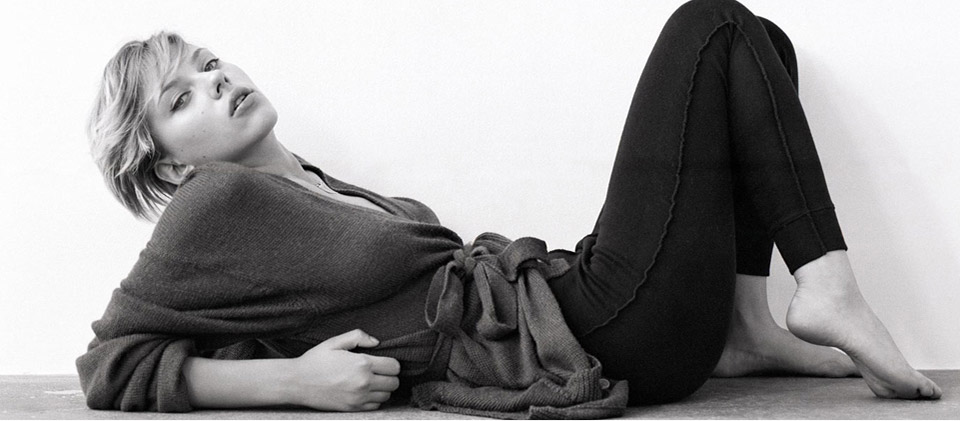
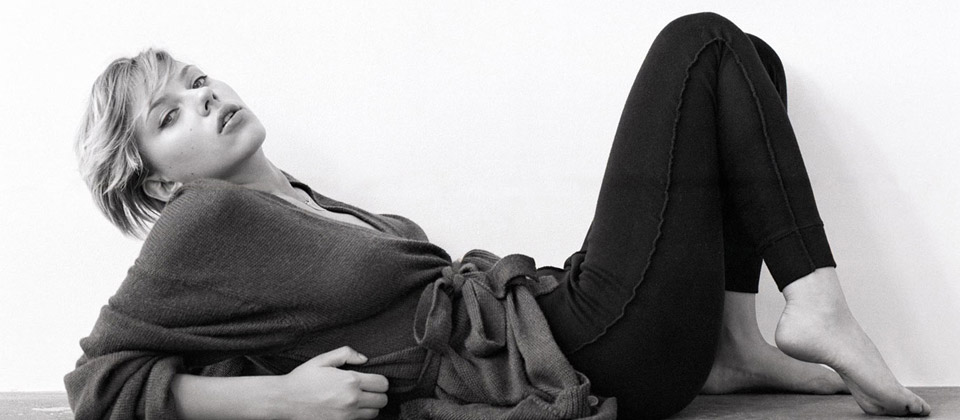
slider update

diff --git a/planetabhi/css/style.css b/planetabhi/css/style.css
@@ -113,10 +113,50 @@ header {
 }
 
 .slider {
-	height: 421px;
+	height: 420px;
+	width: 100%;
 	position: relative;
+	z-index: 1;
+	border: 1px solid #FFF;
+	transition: box-shadow .2s linear;
+}
+
+.slider:hover {
+	box-shadow: 3px 3px 10px #333;
+
+}
+
+.read_more{
+	position: relative;
+	z-index: inherit;
+	top: -1px;
+}
+
+.slider__inner {
+	height: 100%;
+	width: 100%;
+	position: absolute;
+	top: 0;
+	left: 0;
 	background: url(../images/slider_1.jpg) no-repeat;
 	opacity: 1;
+}
+
+/* Buttons */
+.read_btn{
+	font-size: 16px;
+	color: #FFFFFF;
+	position: absolute;
+	bottom: 20px;
+	right: 35px;
+	text-decoration: none;
+	opacity: 1;
+	transition: opacity .1s linear;
+	z-index: inherit;
+}
+
+.read_btn:hover {
+	opacity: 0.5;
 }
 
 .btns {
@@ -127,7 +167,9 @@ header {
 	text-align: center;
 	justify-content: space-between;
 	align-items: center;
+	z-index: inherit;
 }
+
 
 .btn {
 	font-size: 45px;
@@ -167,6 +209,7 @@ header {
 	bottom: 50px;
 	left: 50px;
 	color: #FFFFFF;
+	z-index: inherit;
 }
 
 .title {
@@ -176,23 +219,6 @@ header {
 
 .desc {
 	font-size: 14px;
-}
-
-/* Button */
-.btn_1 {
-	font-size: 16px;
-	color: #FFFFFF;
-	position: absolute;
-	bottom: 15px;
-	right: 35px;
-	text-decoration: none;
-	opacity: 1;
-	transform: opacity .1s linear;
-}
-
-.btn_1:hover {
-	opacity: 0.5;
-
 }
 
 

diff --git a/planetabhi/js/main.js b/planetabhi/js/main.js
@@ -28,16 +28,17 @@ function mouse_construct(flag){
 }
 
 function change_bg_construct(flag){
-	var block = document.getElementsByClassName("slider")[0];
-	block.style.repeat = "no-repeat";
+	var slider = document.getElementsByClassName("slider__inner")[0];
+	slider.style.repeat = "no-repeat";
+	var block = document.getElementsByClassName("slider")[0]
 	block.onmouseover = mouse_construct(true);
 	block.onmouseout = mouse_construct(false);
 	var index = 0;
 
 	function smooth_change(){
 		function change(){
-				block.style.background = bgs[index];
-				block.style.opacity = 1;
+				slider.style.background = bgs[index];
+				slider.style.opacity = 1;
 			}
 
 			var id = setInterval(frame, 15);
@@ -50,7 +51,7 @@ function change_bg_construct(flag){
 				else {
 					opacity -= 0.05;
 					opacity = opacity.toFixed(2);
-					block.style.opacity = opacity;
+					slider.style.opacity = opacity;
 				}
 			}
 	}

diff --git a/planetabhi/index.html b/planetabhi/index.html
@@ -29,14 +29,18 @@
 	<div class="slider__outer">
 	<div class="container">
 			<div class="slider">
-			<img src="images/read_more_btn.png" width="960" height="421" alt="">
+			<div class="read_more">
+			<img src="images/read_more_btn.png" width="960" height="420" alt="">
+			<a href="#" class="read_btn">Read More</a>
+			</div>
+			<div class="slider__inner"></div>
 			<div class="title__part">
 				<h1 class="title">Anar Uynam Ihba</h1>
 				<span class="desc">
 				Maecenas eu placerat ante. Fusce ut neque justo, et aliquet enim.<br> In hac habitasse platea dictumst. Nullam commodo neque erat,<br> vitae facilisis erat.
 			</span>
 			</div>
-			<a href="#" class="btn_1">Read More</a>
+			
 			<div class='btns'>
 				<button id="btn_prev" class="btn">&lt</button>
 				<button id="btn_next" class="btn">&gt</button>
